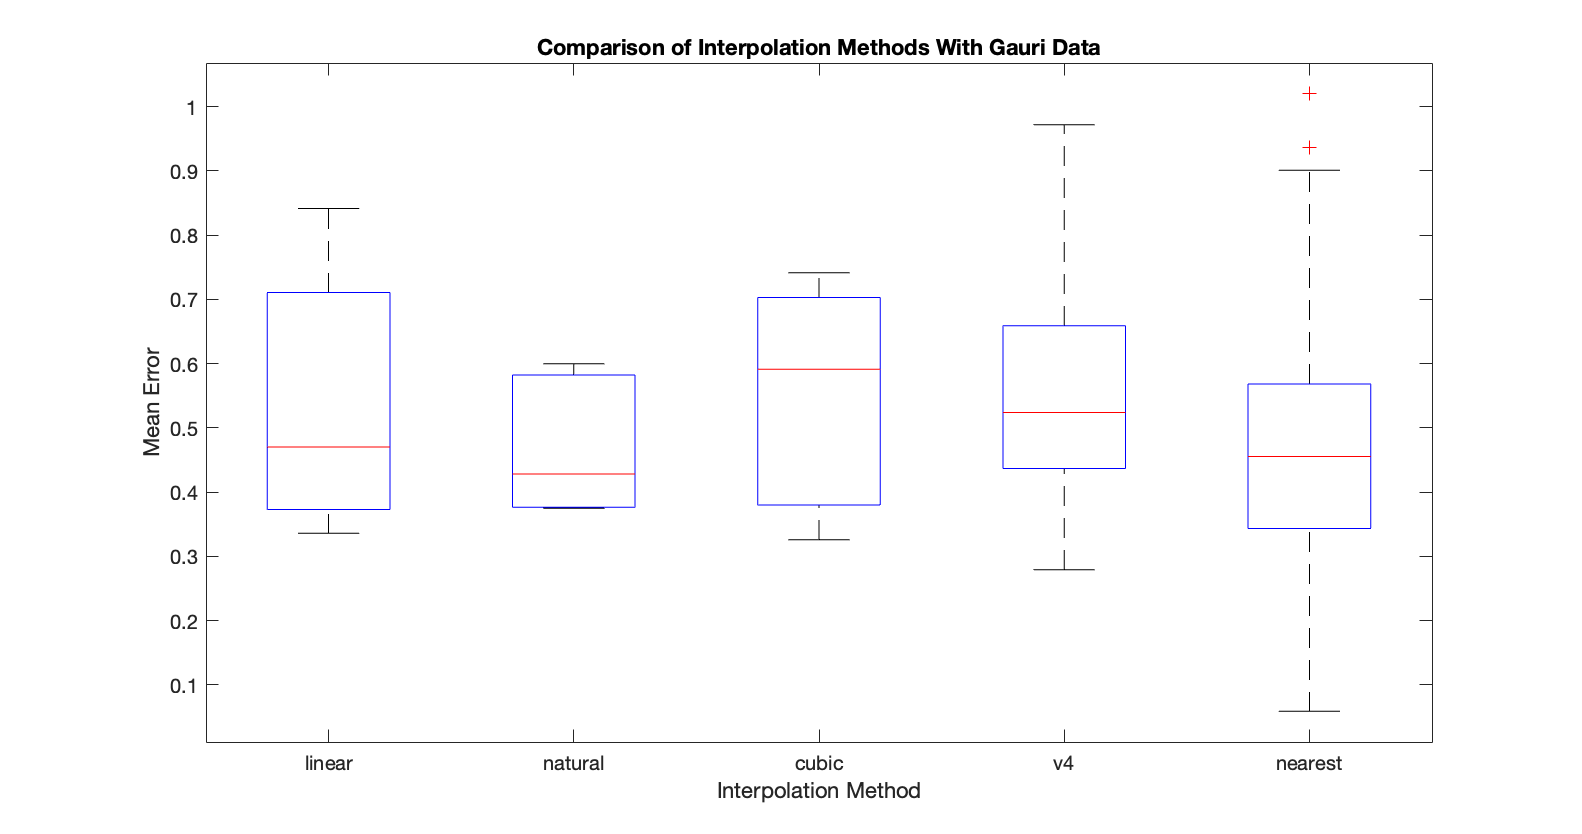
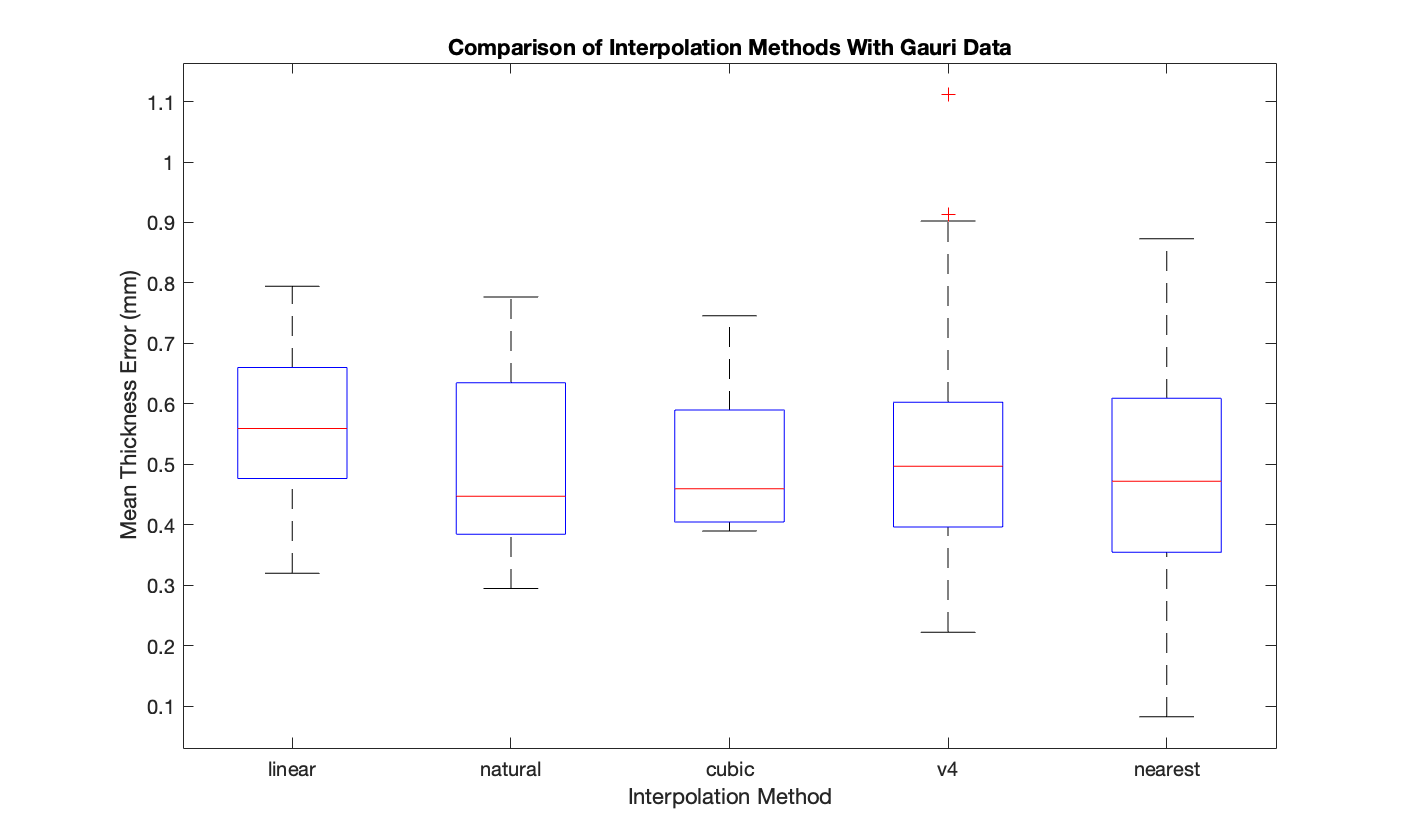
updating files

diff --git a/scripts/validate_interpolation.m b/scripts/validate_interpolation.m
@@ -42,4 +42,4 @@ figure;
 boxplot(meanErrors, 'Labels', methods);
 title('Comparison of Interpolation Methods With Gauri Data');
 xlabel('Interpolation Method');
-ylabel('Mean Error');
+ylabel('Mean Thickness Error (mm)');
